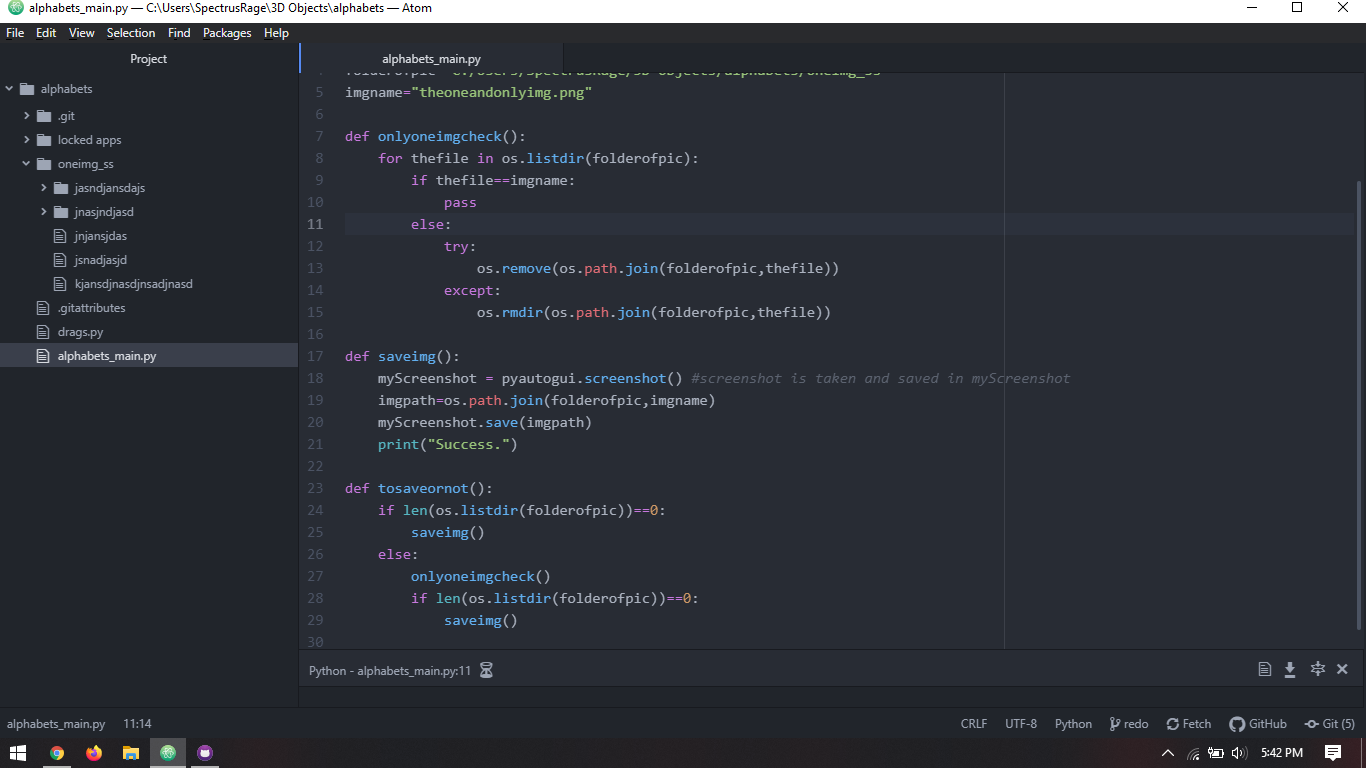
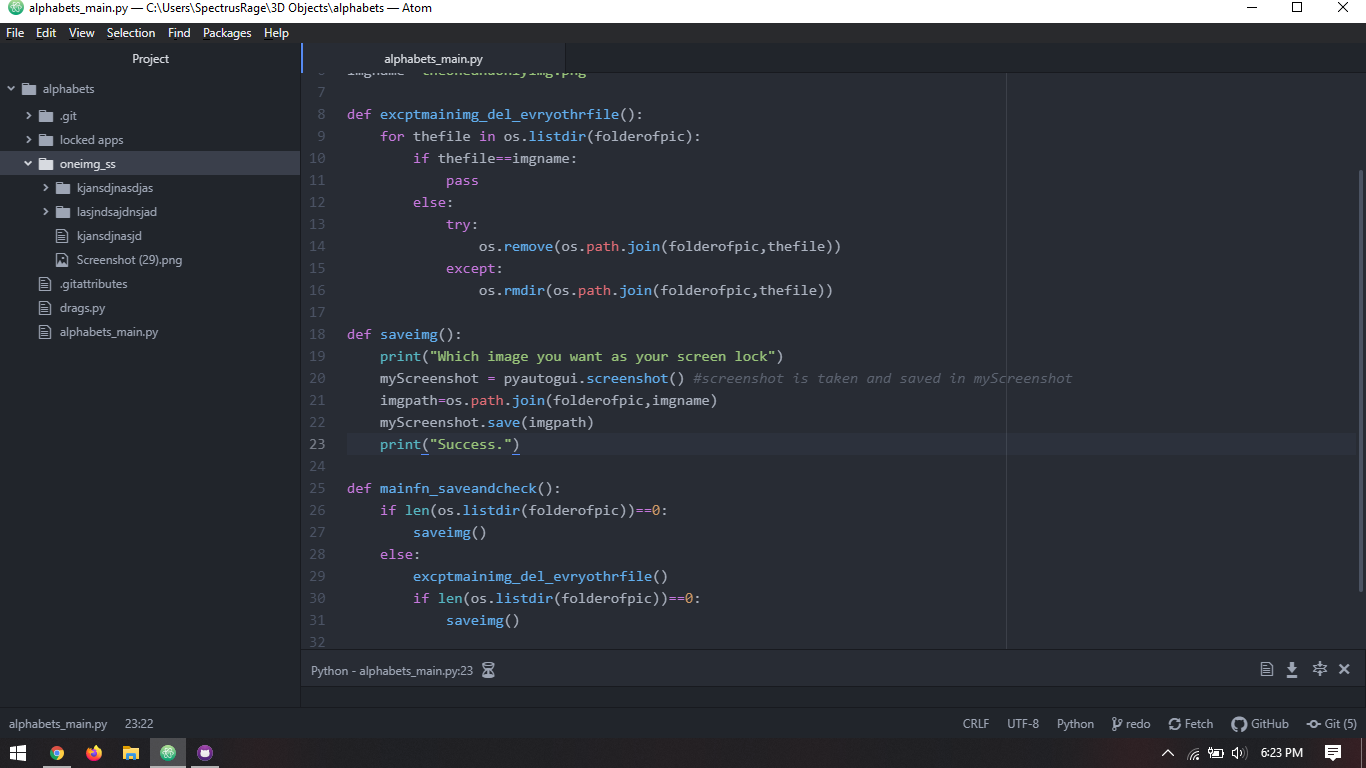
nextstep - taking a screenshot on key command

diff --git a/alphabets_main.py b/alphabets_main.py
@@ -1,10 +1,11 @@
 import os
+from os import path
 import pyautogui
 
 folderofpic="C:/Users/SpectrusRage/3D Objects/alphabets/oneimg_ss"
 imgname="theoneandonlyimg.png"
 
-def onlyoneimgcheck():
+def excptmainimg_del_evryothrfile():
     for thefile in os.listdir(folderofpic):
         if thefile==imgname:
             pass
@@ -15,6 +16,7 @@ def onlyoneimgcheck():
                 os.rmdir(os.path.join(folderofpic,thefile))
 
 def saveimg():
+    print("Which image you want as your screen lock")
     myScreenshot = pyautogui.screenshot() #screenshot is taken and saved in myScreenshot
     imgpath=os.path.join(folderofpic,imgname)
     myScreenshot.save(imgpath)
@@ -24,8 +26,8 @@ def mainfn_saveandcheck():
     if len(os.listdir(folderofpic))==0:
         saveimg()
     else:
-        onlyoneimgcheck()
+        excptmainimg_del_evryothrfile()
         if len(os.listdir(folderofpic))==0:
             saveimg()
 
-mainfn_saveandcheck() # Running the main function which has both saveimg() and onlyoneimgcheck()
+mainfn_saveandcheck() # Running the main function which has both saveimg() and excptmainimg_del_evryothrfile()

diff --git a/drags.py b/drags.py
@@ -1,14 +1,1 @@
 import os
-
-def fc():
-    filescountpath=os.listdir("C:/Users/SpectrusRage/3D Objects/alphabets/oneimg_ss")
-    filescount=0
-    for a_file in filescountpath:
-        filescount+=1
-    return filescount
-
-filescount=fc()
-if filescount==1:
-    print("swipe code")
-else:
-    os.system("python alphabets_main.py")
